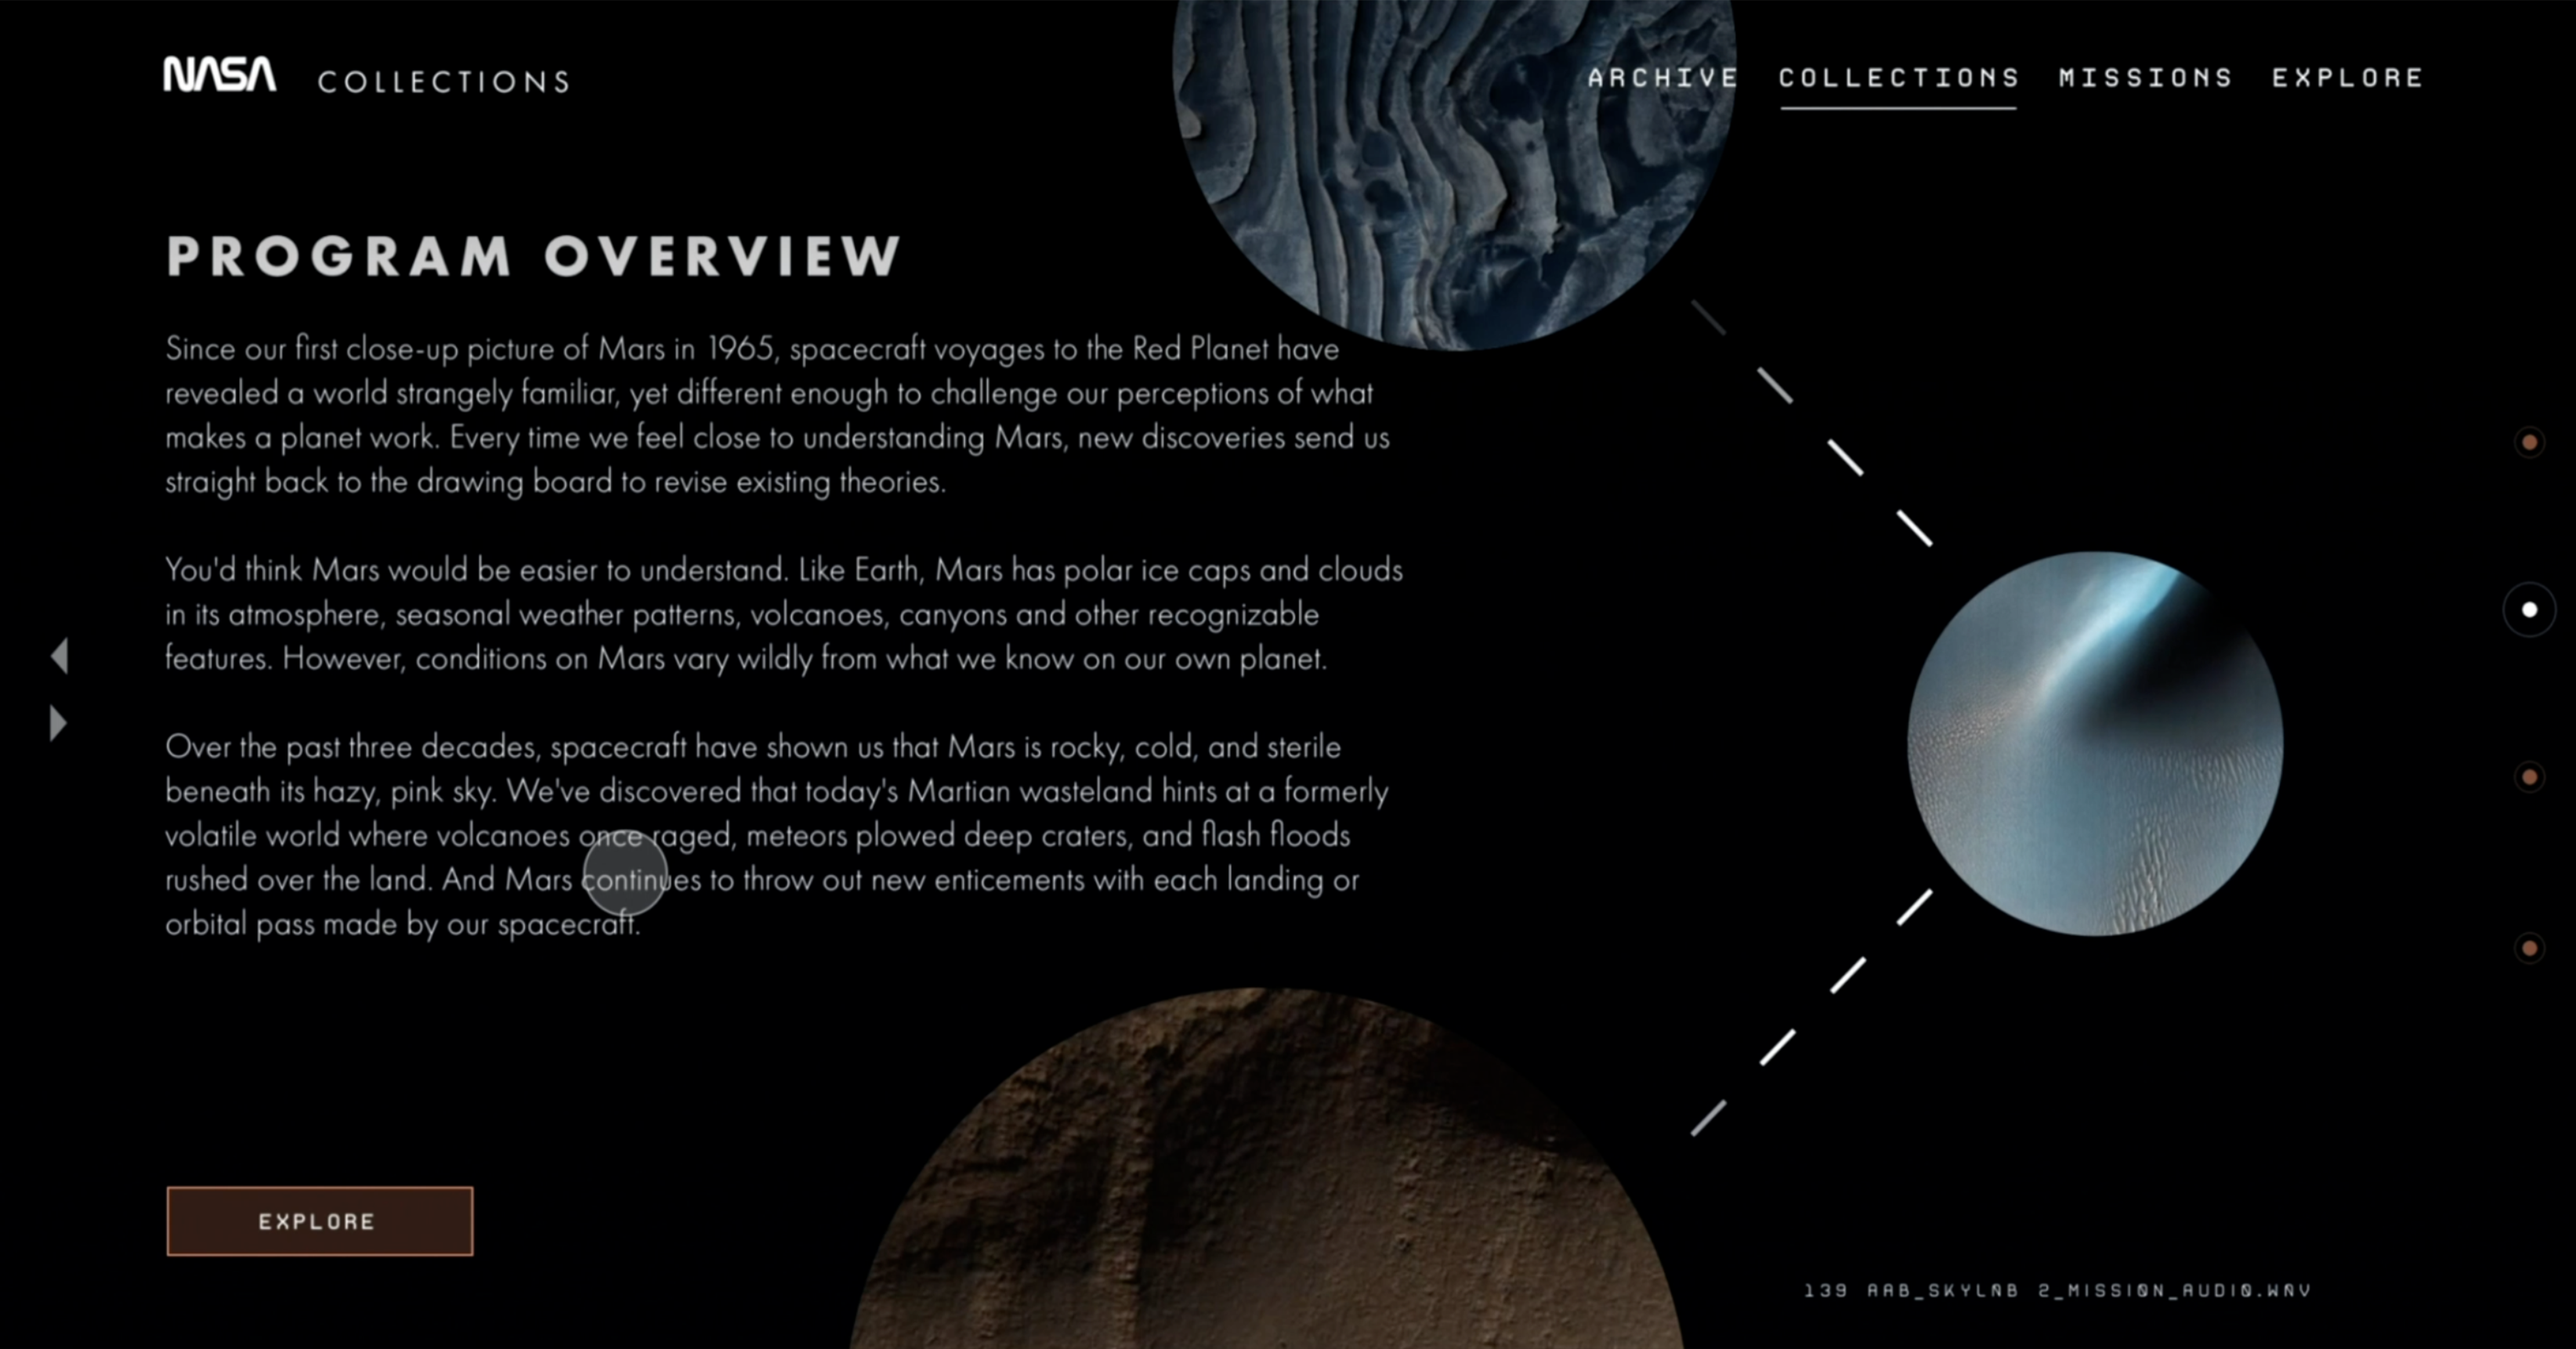
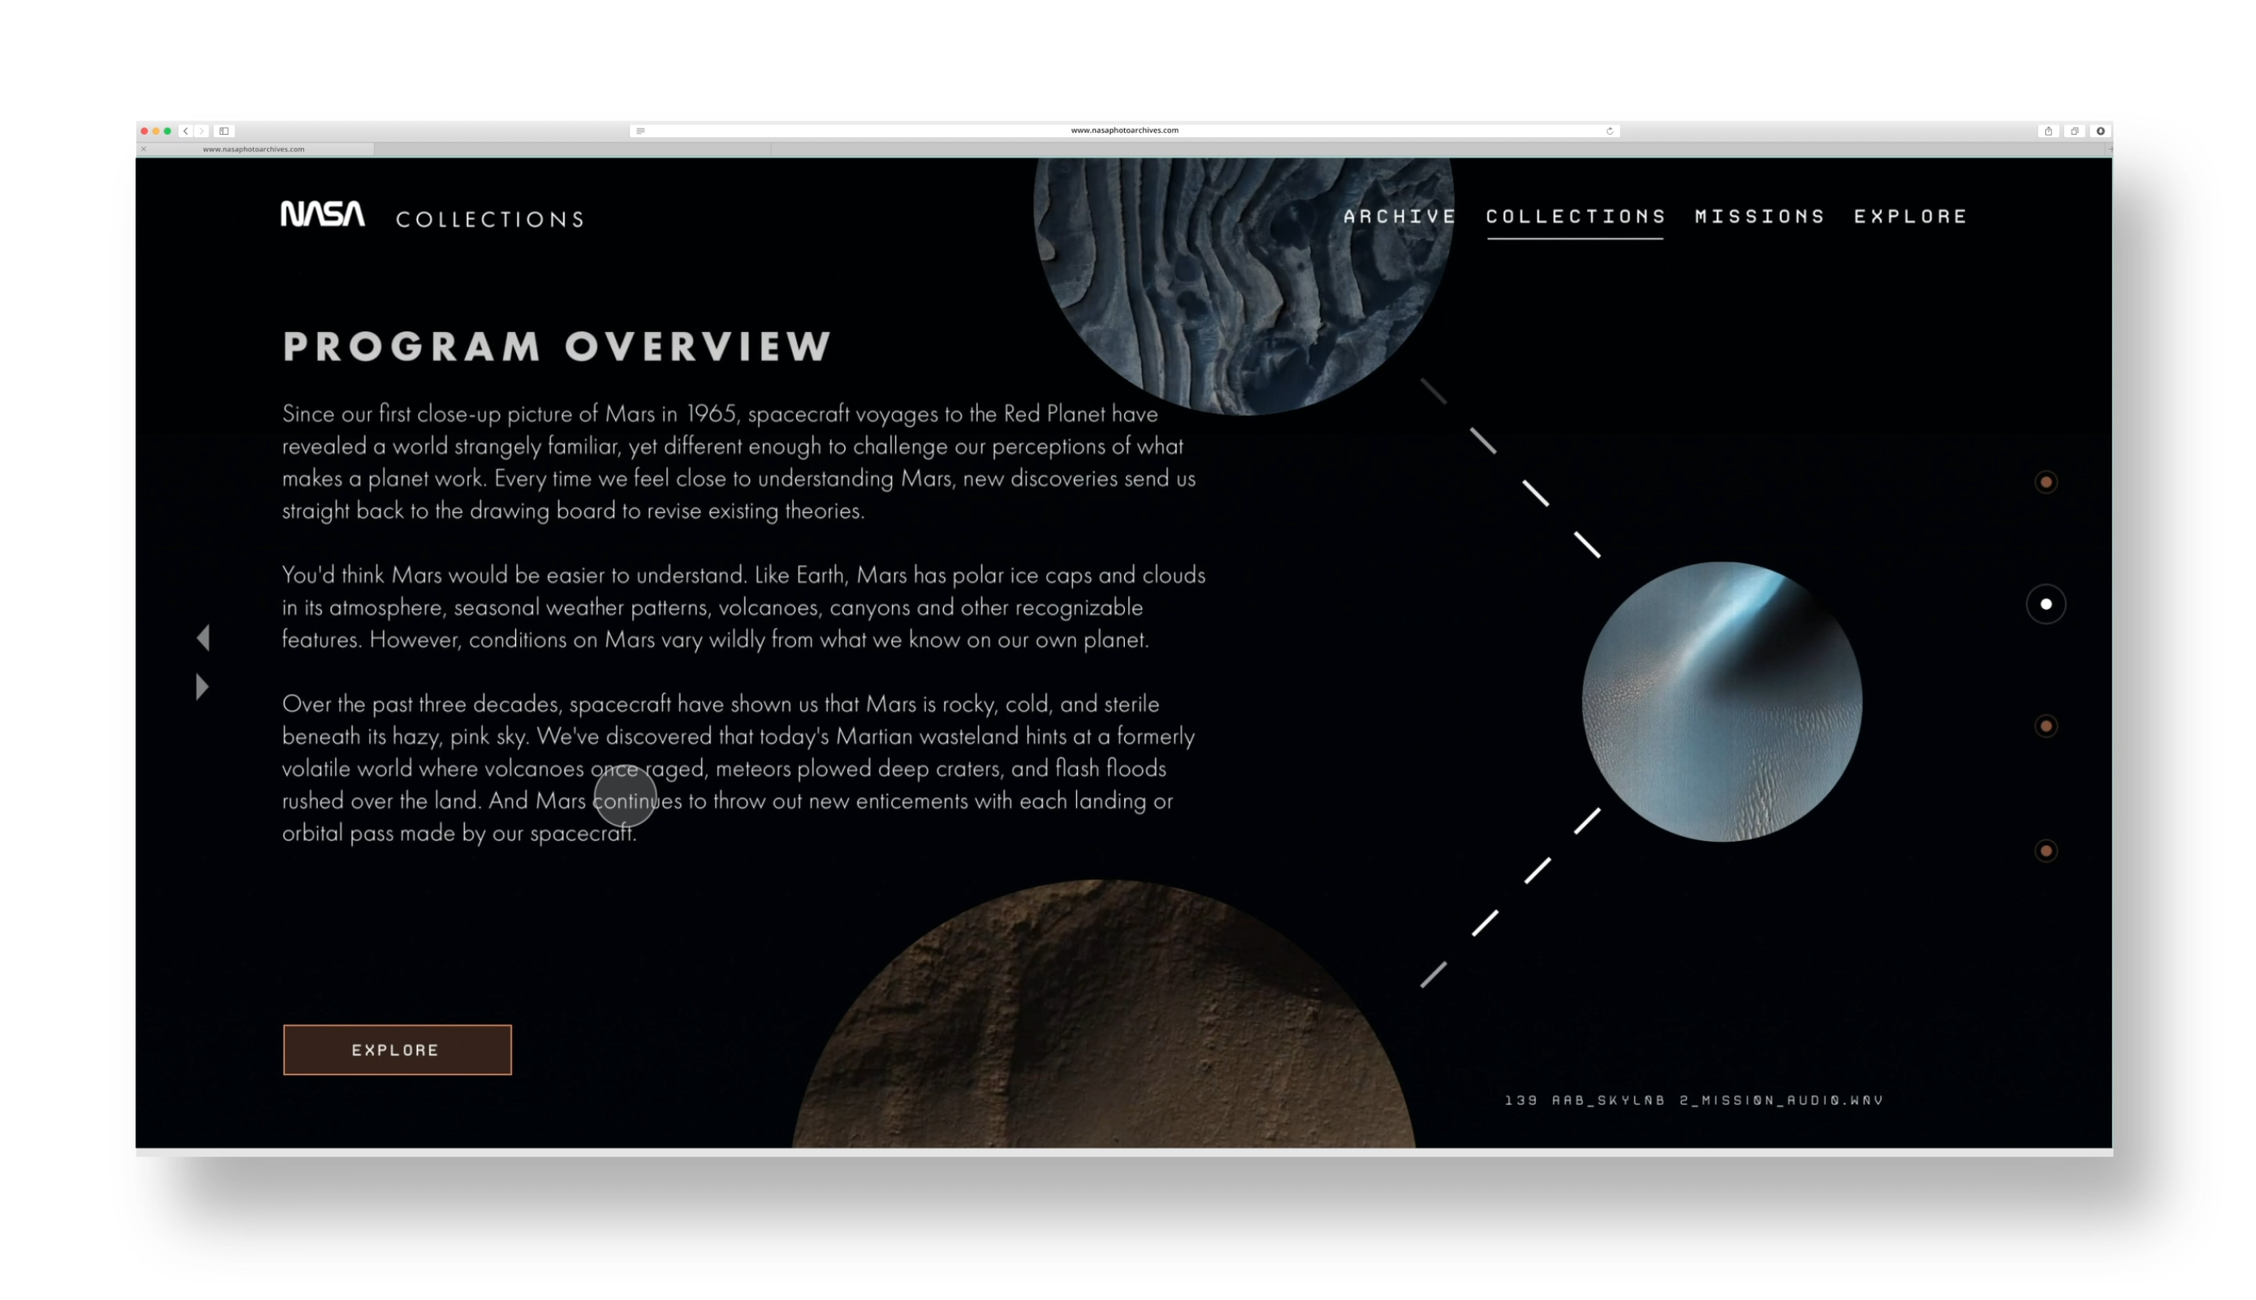
drop shadow, chet case study

diff --git a/nasa.html b/nasa.html
@@ -8,11 +8,8 @@
 <header>
     <div class="caption">
         <span class="nav">
-        <span class="caption-home" style="cursor: pointer" onclick="window.location='index.html'">Home</span>
-        <span class="caption-about" style="cursor: pointer" onclick="window.location='index.html'">About</span>
-    </span>
-        <span class="caption-project">Projects / Overtures</span>
-        
+        <span class="caption-home" style="cursor: pointer" onclick="window.location='index.html'">Ben Walker</span>
+        <span class="caption-about" >Portfolio 2020</span>
     </div>
 </header>
 
@@ -59,60 +56,40 @@
 
 </section>
 
-
 </main>
 
 <div class="projectimage">
-    <img src="assets/photos/npa-2.png" class="supportimg">
+    <img src="assets/photos/npa-1.png" class="supportimg">
+</div>
+
+<div class="projectimage">
+    <img src="Assets/photos/npa-2.png" class="supportimg">
+</div>
+
+<div class="projectimage">
+    <img src="Assets/photos/npa-3.png" class="supportimg">
+</div>
+
+<div class="projectimage">
+    <img src="Assets/photos/npa-4.png" class="supportimg">
+</div>
+
+<div class="projectimage">
+    <img src="Assets/photos/npa-5.png" class="supportimg">
+</div>
+
+<div class="projectimage">
+    <img src="Assets/photos/npa-6.png" class="supportimg">
 </div>
 
 <main>
-
-<section class="projectstory">
-    <div class="storyhalf">
-        <h5>Where it began</h5>
-    </div>
-    <div class="texthalf">
-        <p>Lorem ipsum dolor sit amet, consectetur adipiscing elit, sed do eiusmod tempor incididunt ut labore et dolore magna aliqua.
-        Ut enim ad minim veniam, quis nostrud exercitation ullamco laboris nisi ut aliquip ex ea commodo consequat. Duis aute irure dolor in 
-        reprehenderit in voluptate velit esse cillum dolore eu fugiat nulla pariatur. Excepteur sint occaecat cupidatat non proident, sunt in culpa 
-        qui officia deserunt mollit anim id est laborum.</p>
-    </div>
-</section>
-
-<div class="pullquote">
-    <h6>This is a pull quote telling u some really important highlight of the project something just sooooo crazy holy crap wow thats nuts</h6>
-</div>
-
-<section class="projectstory">
-    <div class="storyhalf">
-        <img src="Assets/photos/overtures-1.png" class="supportimg">
-    </div>
-    <div class="texthalf">
-        <p>Lorem ipsum dolor sit amet, consectetur adipiscing elit, sed do eiusmod tempor incididunt ut labore et dolore magna aliqua.
-        Ut enim ad minim veniam, quis nostrud exercitation ullamco laboris nisi ut aliquip ex ea commodo consequat. Duis aute irure dolor in 
-        reprehenderit in voluptate velit esse cillum dolore eu fugiat nulla pariatur. Excepteur sint occaecat cupidatat non proident, sunt in culpa 
-        qui officia deserunt mollit anim id est laborum.</p>
-    </div>
-</section>
-
-</main>
-
-<div class="projectimage">
-    <img src="Assets/photos/overtures-1.png" class="supportimg">
-</div>
-
 <section class="next">
     <div class=next-project>
         <h6></h6>Next Project</div>
-    <div class="p-name" style="cursor: pointer" onclick="window.location='index.html'">
-        NASA Photo Archives
+    <div class="p-name" style="cursor: pointer" onclick="window.location='princeofcool.html'">
+        The Prince of Cool
     </div>
 </section>
-
-<main>
-
-
 </main>
 
 

diff --git a/princeofcool.html b/princeofcool.html
@@ -1,0 +1,127 @@
+<html>
+
+<head>
+    <link rel="stylesheet" type="text/css" href="style.css">
+</head>
+
+
+<header>
+    <div class="caption">
+        <span class="nav">
+        <span class="caption-home" style="cursor: pointer" onclick="window.location='index.html'">Ben Walker</span>
+        <span class="caption-about" >Portfolio 2020</span>
+    </div>
+</header>
+
+<main>
+    
+    <div class="titleanddesc appear">
+        <span class="title">
+            <h3>The Prince of Cool</h3>
+        </span>
+
+       
+    </div>
+
+    <section class="projectstory">
+
+
+    <div class="intropar appear">
+    <p>Chet Baker was a jazz musician in the mid 1900’s. He was known for his soft and melodic trumpet melodies, 
+        with wispy and vulnerable vocal melodies laid on top. Baker was said to have had the qualities of Sinatra and 
+        James Dean rolled into one. 
+    </p>
+    <p>In creating the box set, the overall complexion of every element was based off of three initial record designs that were 
+        designed to reflect the nature or Chet Baker. This system was carried throughout all supplementary assets, in order to 
+        create a visually cohesive system.</p>
+    </div>
+    
+
+<section class="introlist appear">
+<div class="list">
+    <hX>Technology Used</hX>
+    <ul>
+    <li>Laser Cutter</li>
+    <li>InDesign</li>
+    <li>Photoshop</li>
+    </ul>
+</div>
+
+<div class="list">
+    <hX>Areas of Expertise</hX>
+    <ul>
+    <li>Print</li>
+    <li>Bookbinding</li>
+    <li>Woodworking</li>
+    <li>Sewing</li>
+
+    </ul>
+</div>
+</section>
+
+</section>
+</main>
+
+<main>
+<section class="projectstory">
+<div class="storyhalf">
+    <img src="Assets/photos/chet-1.1.jpg" class="supportimg">
+</div>
+
+<div class="storyhalf">
+    <img src="Assets/photos/chet-1.2.jpg" class="supportimg">
+</div>
+</section>
+</main>
+
+<div class="projectimage">
+    <img src="Assets/photos/overtures-1.png" class="supportimg">
+</div>
+
+<main>
+<section class="projectstory">
+<div class="storyhalf">
+    <img src="Assets/photos/chet-2.1.jpg" class="supportimg">
+</div>
+
+<div class="storyhalf">
+    <img src="Assets/photos/chet-2.2.jpg" class="supportimg">
+</div>
+</section>
+</main>
+
+<div class="projectimage">
+    <img src="Assets/photos/overtures-1.png" class="supportimg">
+</div>
+
+<main>
+<section class="projectstory">
+<div class="storyhalf">
+    <img src="Assets/photos/chet-3.1.jpg" class="supportimg">
+</div>
+
+<div class="storyhalf">
+    <img src="Assets/photos/chet-3.2.jpg" class="supportimg">
+</div>
+</section>
+</main>
+
+<main>
+<section class="next">
+    <div class=next-project>
+        <h6></h6>Next Project</div>
+    <div class="p-name" style="cursor: pointer" onclick="window.location='index.html'">
+        NASA Photo Archives
+    </div>
+</section>
+</main>
+
+<main>
+
+
+</main>
+
+
+</html>
+
+

diff --git a/style.css b/style.css
@@ -102,6 +102,7 @@ main {
     left: 10%;
     top: 5%;
     
+    
 }
 
 .circle-1 {
@@ -219,6 +220,9 @@ span img {
 img {
     max-width: 100%;
     max-height: 100%;
+    -webkit-box-shadow: -1px 0px 41px -8px rgba(133,133,133,0.25);
+    -moz-box-shadow: -1px 0px 41px -8px rgba(133,133,133,0.25);
+    box-shadow: -1px 0px 41px -8px rgba(133,133,133,0.25);
 
 }
 
@@ -301,7 +305,7 @@ p {
     font-weight: 100;
     margin-block-start: 0em;
     margin-block-end: 0em;
-    display: inline;
+    margin-top: 18px;
 }
 
 h7 {
@@ -370,6 +374,7 @@ ul {
     }
 }
 
+
 .list {
     width: 50%;
     display: inline;
@@ -379,6 +384,7 @@ ul {
     p {
         font-size: 22px;
         line-height: 1.5em;
+        margin-top: 11px;
 
     }
 }
@@ -423,6 +429,7 @@ ul {
     .projectstory {
         display: flex;
         justify-content: space-between;
+        margin: 10px 0 10px 0;
     }
 
     .storyhalf {
@@ -532,12 +539,11 @@ ul {
     margin-bottom: 20px;
 }
 
-.casestudies {
-    display: block;
-    justify-content: space-between;
-    margin: 20px 0 20px 0;
-
+.supportimg {
+    margin: 0 10px 0 10px;
+    width: 97%;
 }
+
 
 .cs-words {
     margin: 10px 0 25px 0;
@@ -555,6 +561,8 @@ ul {
 .casestudies {
     display: flex;
     justify-content: space-between;
+    margin: 20px 0 20px 0;
+    
 }
 
 .casestudy-1 {

diff --git a/overtures.html b/overtures.html
@@ -120,11 +120,11 @@
 </section>
 
 </main>
-<main>
 <div class="projectimage">
     <img src="Assets/photos/overtures-4.png" class="supportimg">
 </div>
 
+<main>
 <section class="projectstory">
     <div class="storyhalf">
         <h5>How it was made</h5>
@@ -161,7 +161,7 @@
 <section class="next">
     <div class=next-project>
         <h6></h6>Next Project</div>
-    <div class="p-name" style="cursor: pointer" onclick="window.location='index.html'">
+    <div class="p-name" style="cursor: pointer" onclick="window.location='nasa.html'">
         NASA Photo Archives
     </div>
 </section>
